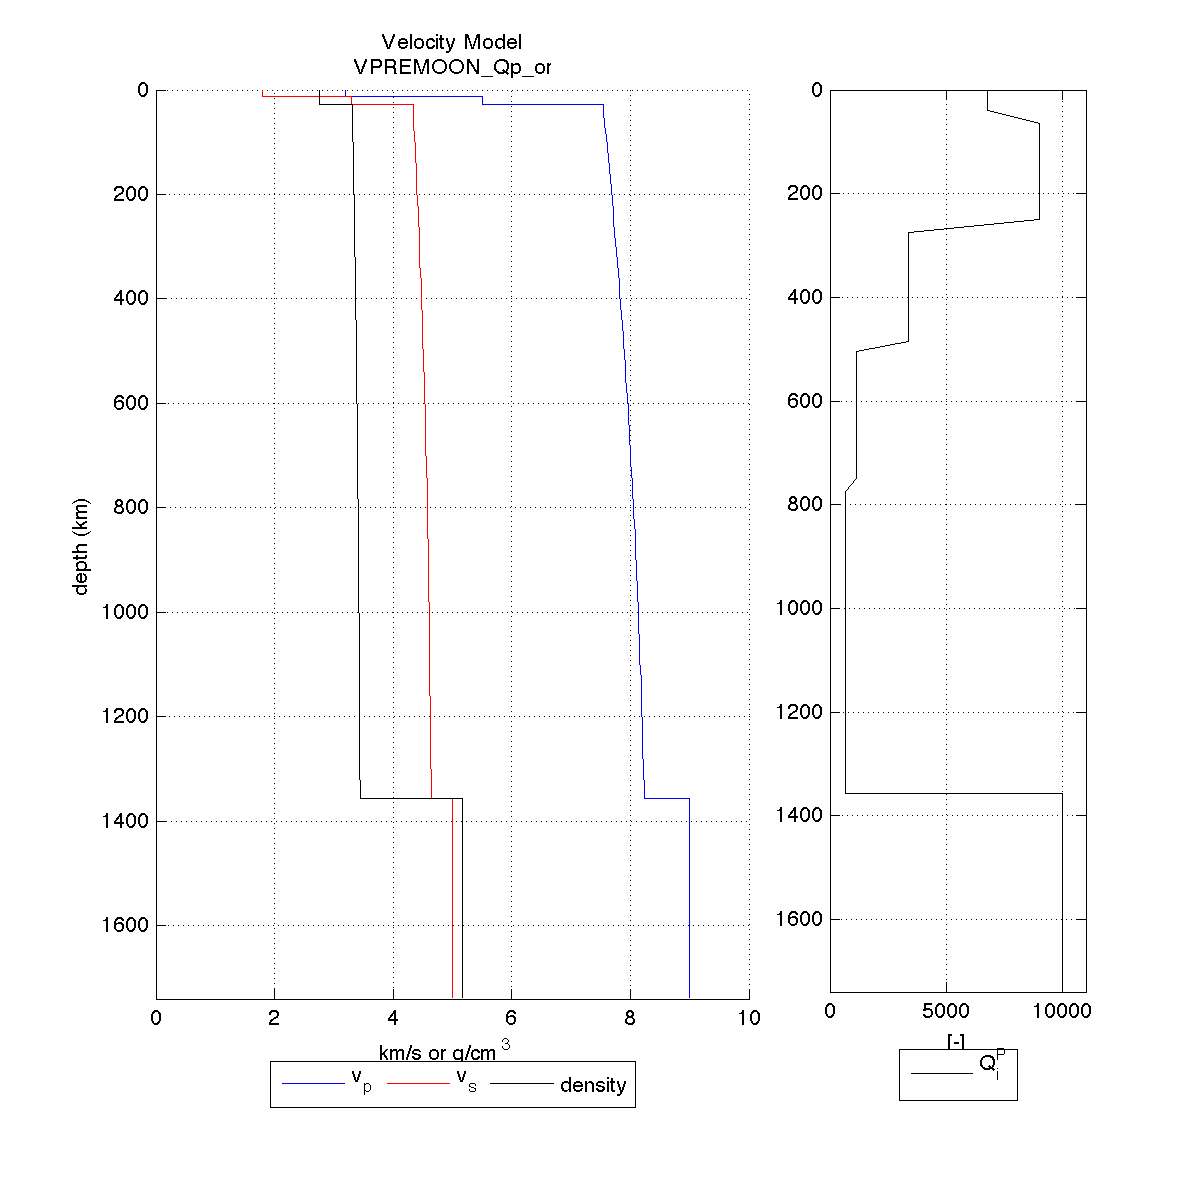
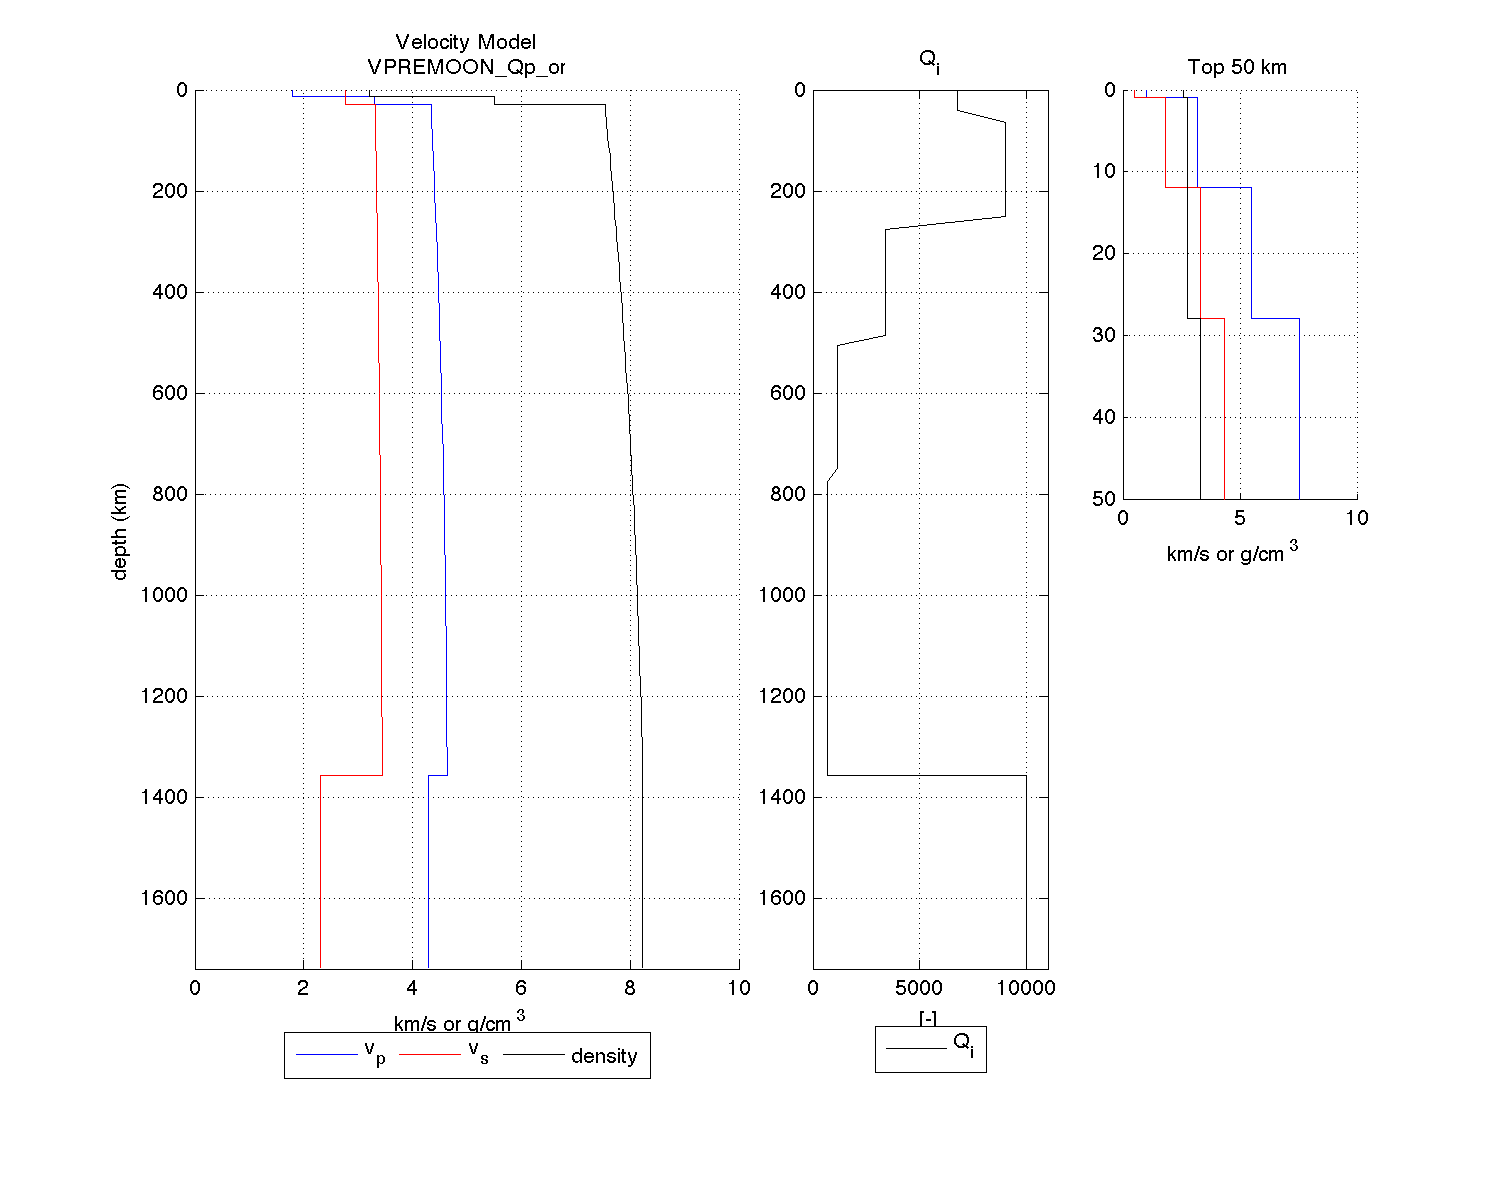
Deleting some stuff

diff --git a/PHONON1D/MODELS/plotmodels_withQ.m b/PHONON1D/MODELS/plotmodels_withQ.m
@@ -1,22 +1,10 @@
 close all
 
 modellist = {...
-    ...'S_VPREMOON_Qp_novlvl'
-    ...'VPREMOON_mod'
-    ...'VPREMOON_original'
-    ...'WEBER_2011_original'
-    ...'WEBER_2011_original_nocrustgrad'
-    ...'GB_2006_original'
-    ...'VPREMOON_Qp_ori_10km_500m'
-    ...'VPREMOON_Q7000_10km_500m'
-    ...'VPREMOON_LIQc_Q7000_10km_500m'
-    ...'VPREMOON_Q7000_gc05_nvlvl_10km_500m'
-    ...'VPREMOON_Q7000_NOCORE_10km_500m'
-    ...'MOON2LAYERS_10km'
-    ...'MOON1LAYER_10km'
-    ...'GG11_thorne'
-    'EARTH_MODEL_10km'
-    'EARTH_MODEL_20km'
+    'VPREMOON_Qp_nocrust_10km';
+    'VPREMOON_Qp_novlvl_10km';
+    'VPREMOON_Qp_novlvl_liquid_10km';
+    'VPREMOON_Qp_ori_10km'
     };
 
 
@@ -41,9 +29,9 @@ for ii=1:length(modellist)
     hold on
        
 
-    plot(model(:,3),model(:,1),'b-')
-    plot(model(:,4),model(:,1),'r-')
-    plot(model(:,5),model(:,1),'k-')
+    plot(model(:,4),model(:,1),'b-')
+    plot(model(:,5),model(:,1),'r-')
+    plot(model(:,3),model(:,1),'k-')
 
     
     title(sprintf('Velocity Model\n%s',modellist{ii}),'Interpreter','none')
@@ -96,7 +84,7 @@ for ii=1:length(modellist)
     set(gcf, 'PaperPositionMode', 'manual');
     set(gcf, 'PaperPosition', [0 0 ps]);
     print(gcf, '-dpng', ['Figures/' modellist{ii} '_plot.png']);
-    print(gcf, '-dpsc2', ['Figures/' modellist{ii} '_plot.eps']);
+    print(gcf, '-dpsc2', ['Figures/EPS/' modellist{ii} '_plot.eps']);
     
 end
 

diff --git a/PHONON1D/MODELS/ORIGINALS/plotmodels_withQ.m b/PHONON1D/MODELS/ORIGINALS/plotmodels_withQ.m
@@ -1,13 +1,10 @@
 close all
 
 modellist = {...
-    ...'VPREMOON_mod'
-    ...'VPREMOON_original'
-    ...'WEBER_2011_original'
-    ...'WEBER_2011_original_nocrustgrad'
-    ...'GB_2006_original'
-    ...'VPREMOON_Q7000_gradcrust05_nvlvl'
-    'VPREMOON_Q7000_ori_NoCORE'
+    'VPREMOON_Qp_ori';
+    'VPREMOON_Qp_novlvl';
+    'VPREMOON_Qp_novlvl_liquid';
+    'VPREMOON_Qp_nocrust'
     };
 
 
@@ -30,9 +27,9 @@ for ii=1:length(modellist)
     hold on
        
 
-    plot(model(:,3),model(:,1),'b-')
-    plot(model(:,4),model(:,1),'r-')
-    plot(model(:,5),model(:,1),'k-')
+    plot(model(:,4),model(:,1),'b-')
+    plot(model(:,5),model(:,1),'r-')
+    plot(model(:,3),model(:,1),'k-')
 
     
     title(sprintf('Velocity Model\n%s',modellist{ii}),'Interpreter','none')

diff --git a/PHONON1D/MODELS/ORIGINALS/AUX/make_VPREMOON_Qp_ori.m b/PHONON1D/MODELS/ORIGINALS/AUX/make_VPREMOON_Qp_ori.m
@@ -74,11 +74,11 @@ model = [...
 1309.9	427.1	8.22	4.64	3.44	675
 1329.9	407.1	8.23	4.64	3.441	675
 1349.9	387.1	8.23	4.64	3.442	675
-1357	380	8.23	4.64	3.442	675
-1357	380	9	5	5.171	10000
-1737	0	9	5	5.171	10000];
+1357	380	    8.23	4.64	3.442	675
+1357	380 	8.23	4.3	2.3	10000
+1737	0	    8.23	4.3	2.3	10000];
 
-fid = fopen('VPREMOON_Qp_ori','w');
+fid = fopen('../VPREMOON_Qp_ori','w');
 
 for ii = 1:length(model)
     fprintf(fid,'%4.2f %4.2f %2.2f %2.2f %2.4f %.0f\n',model(ii,:));
